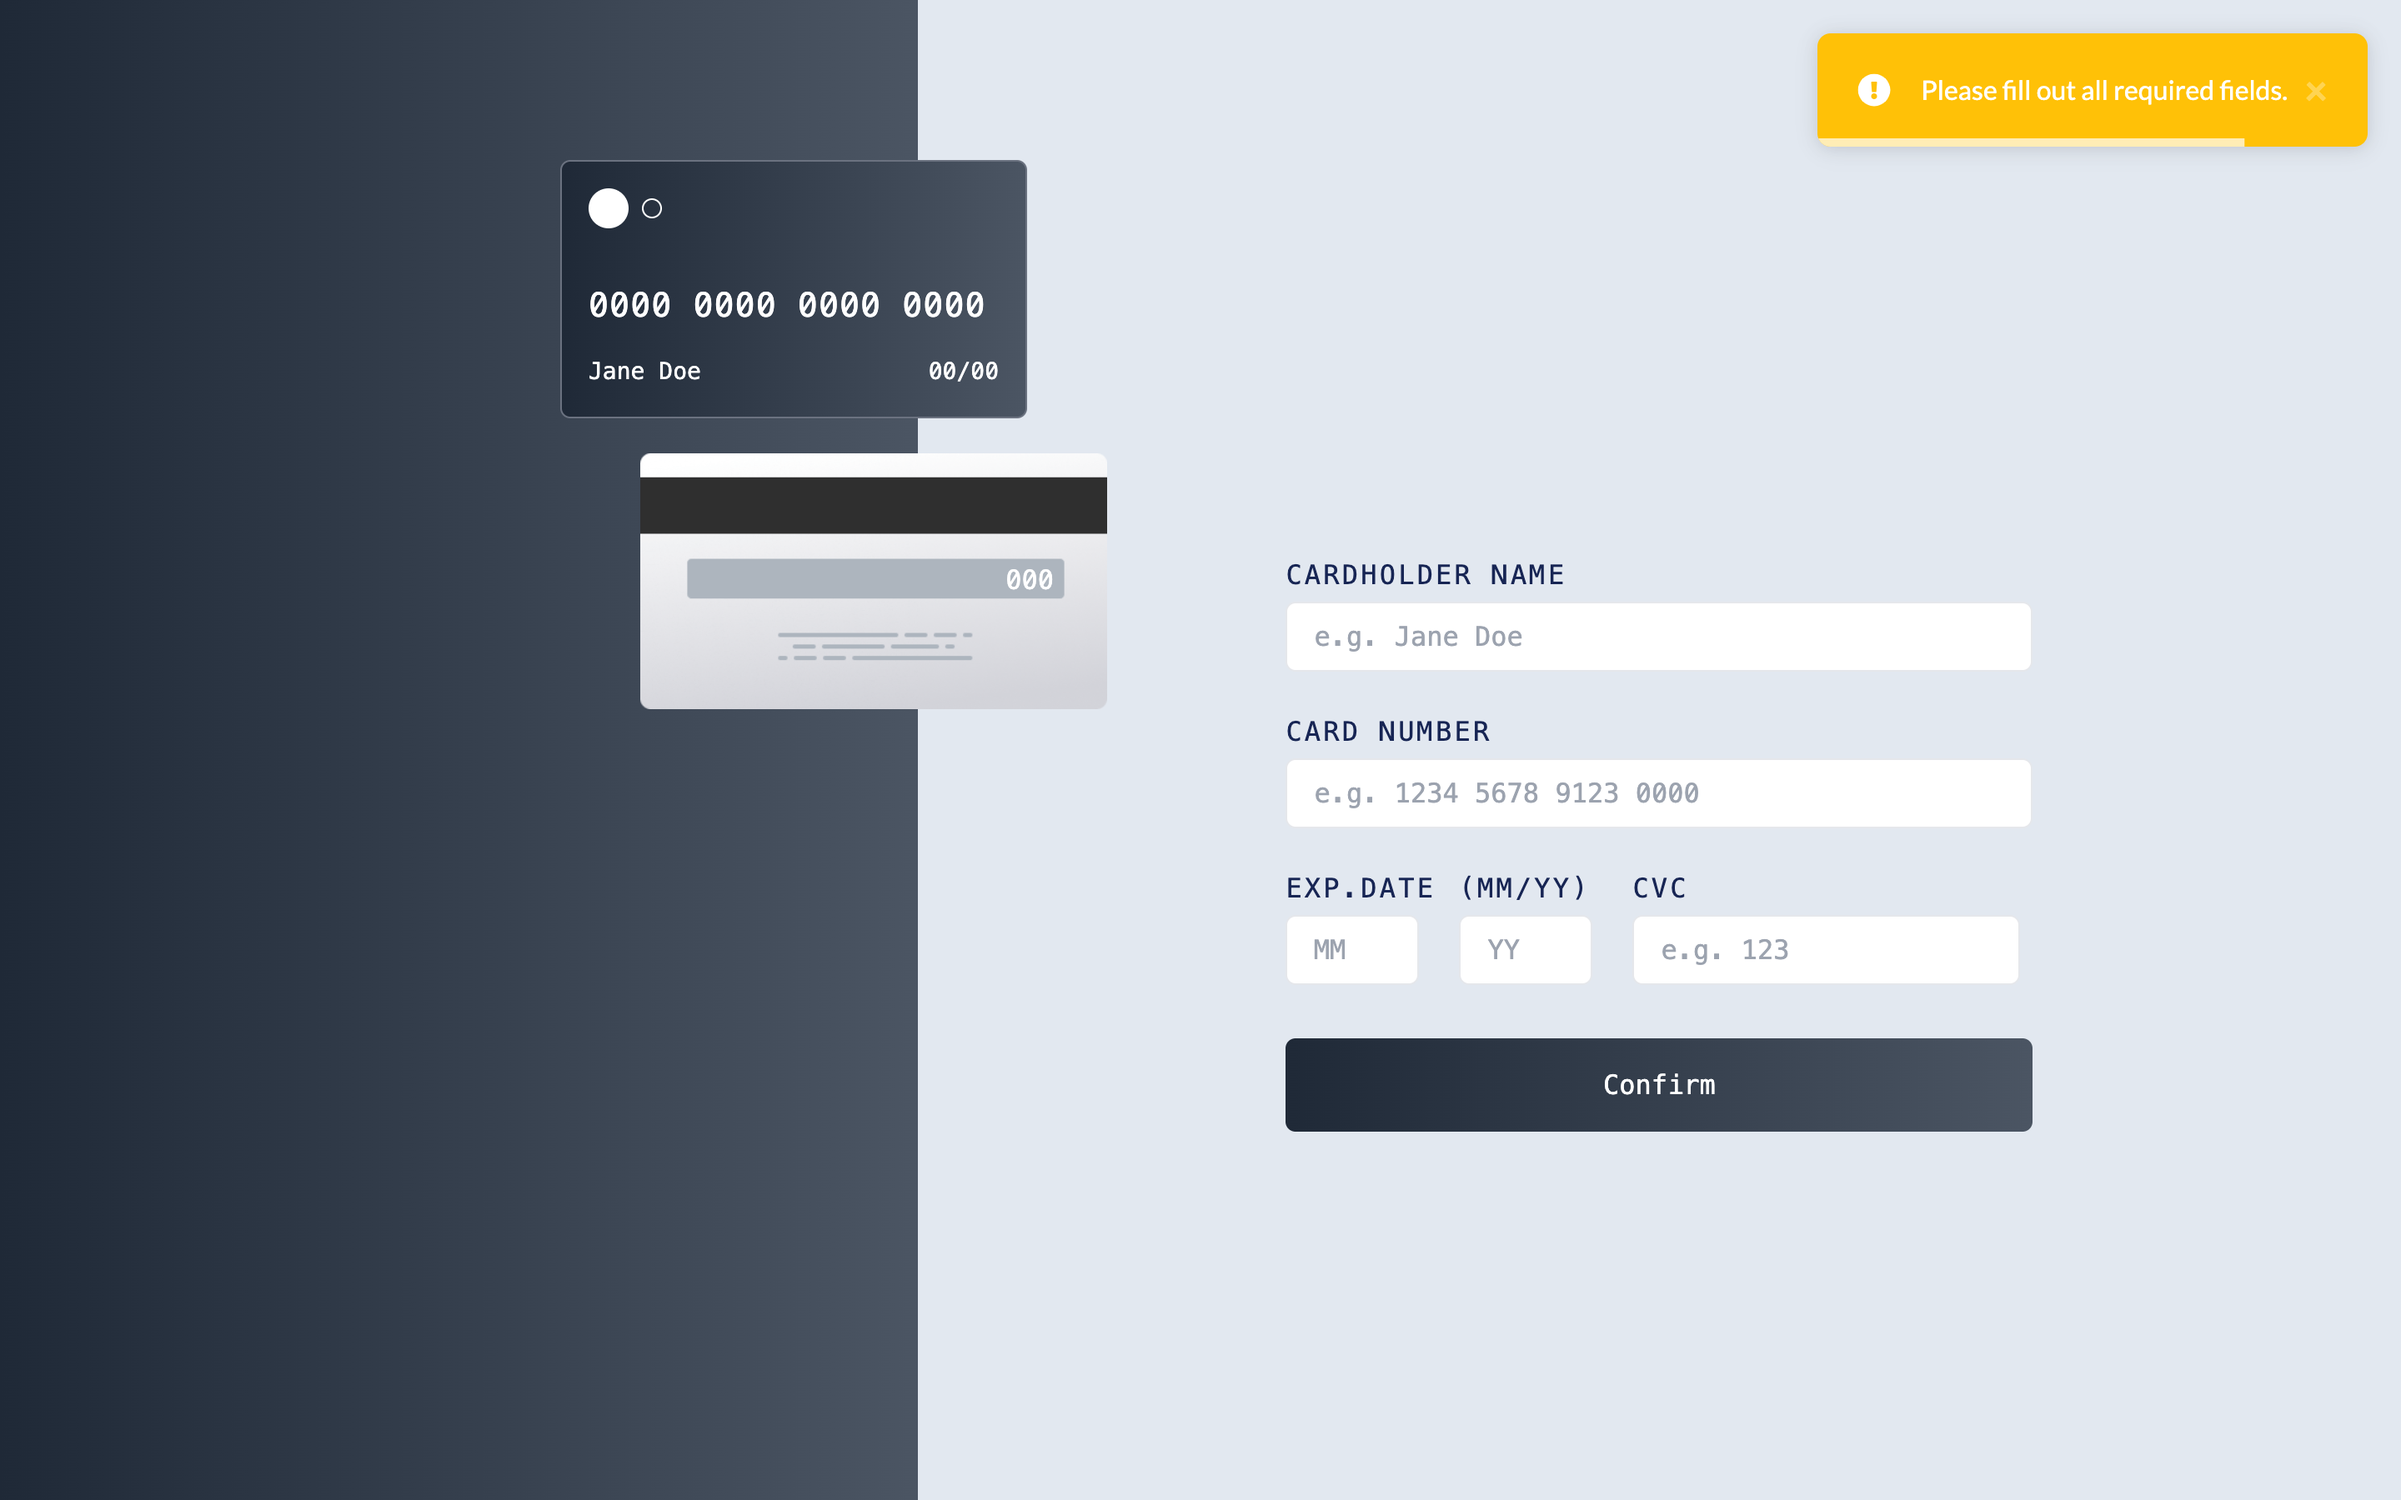
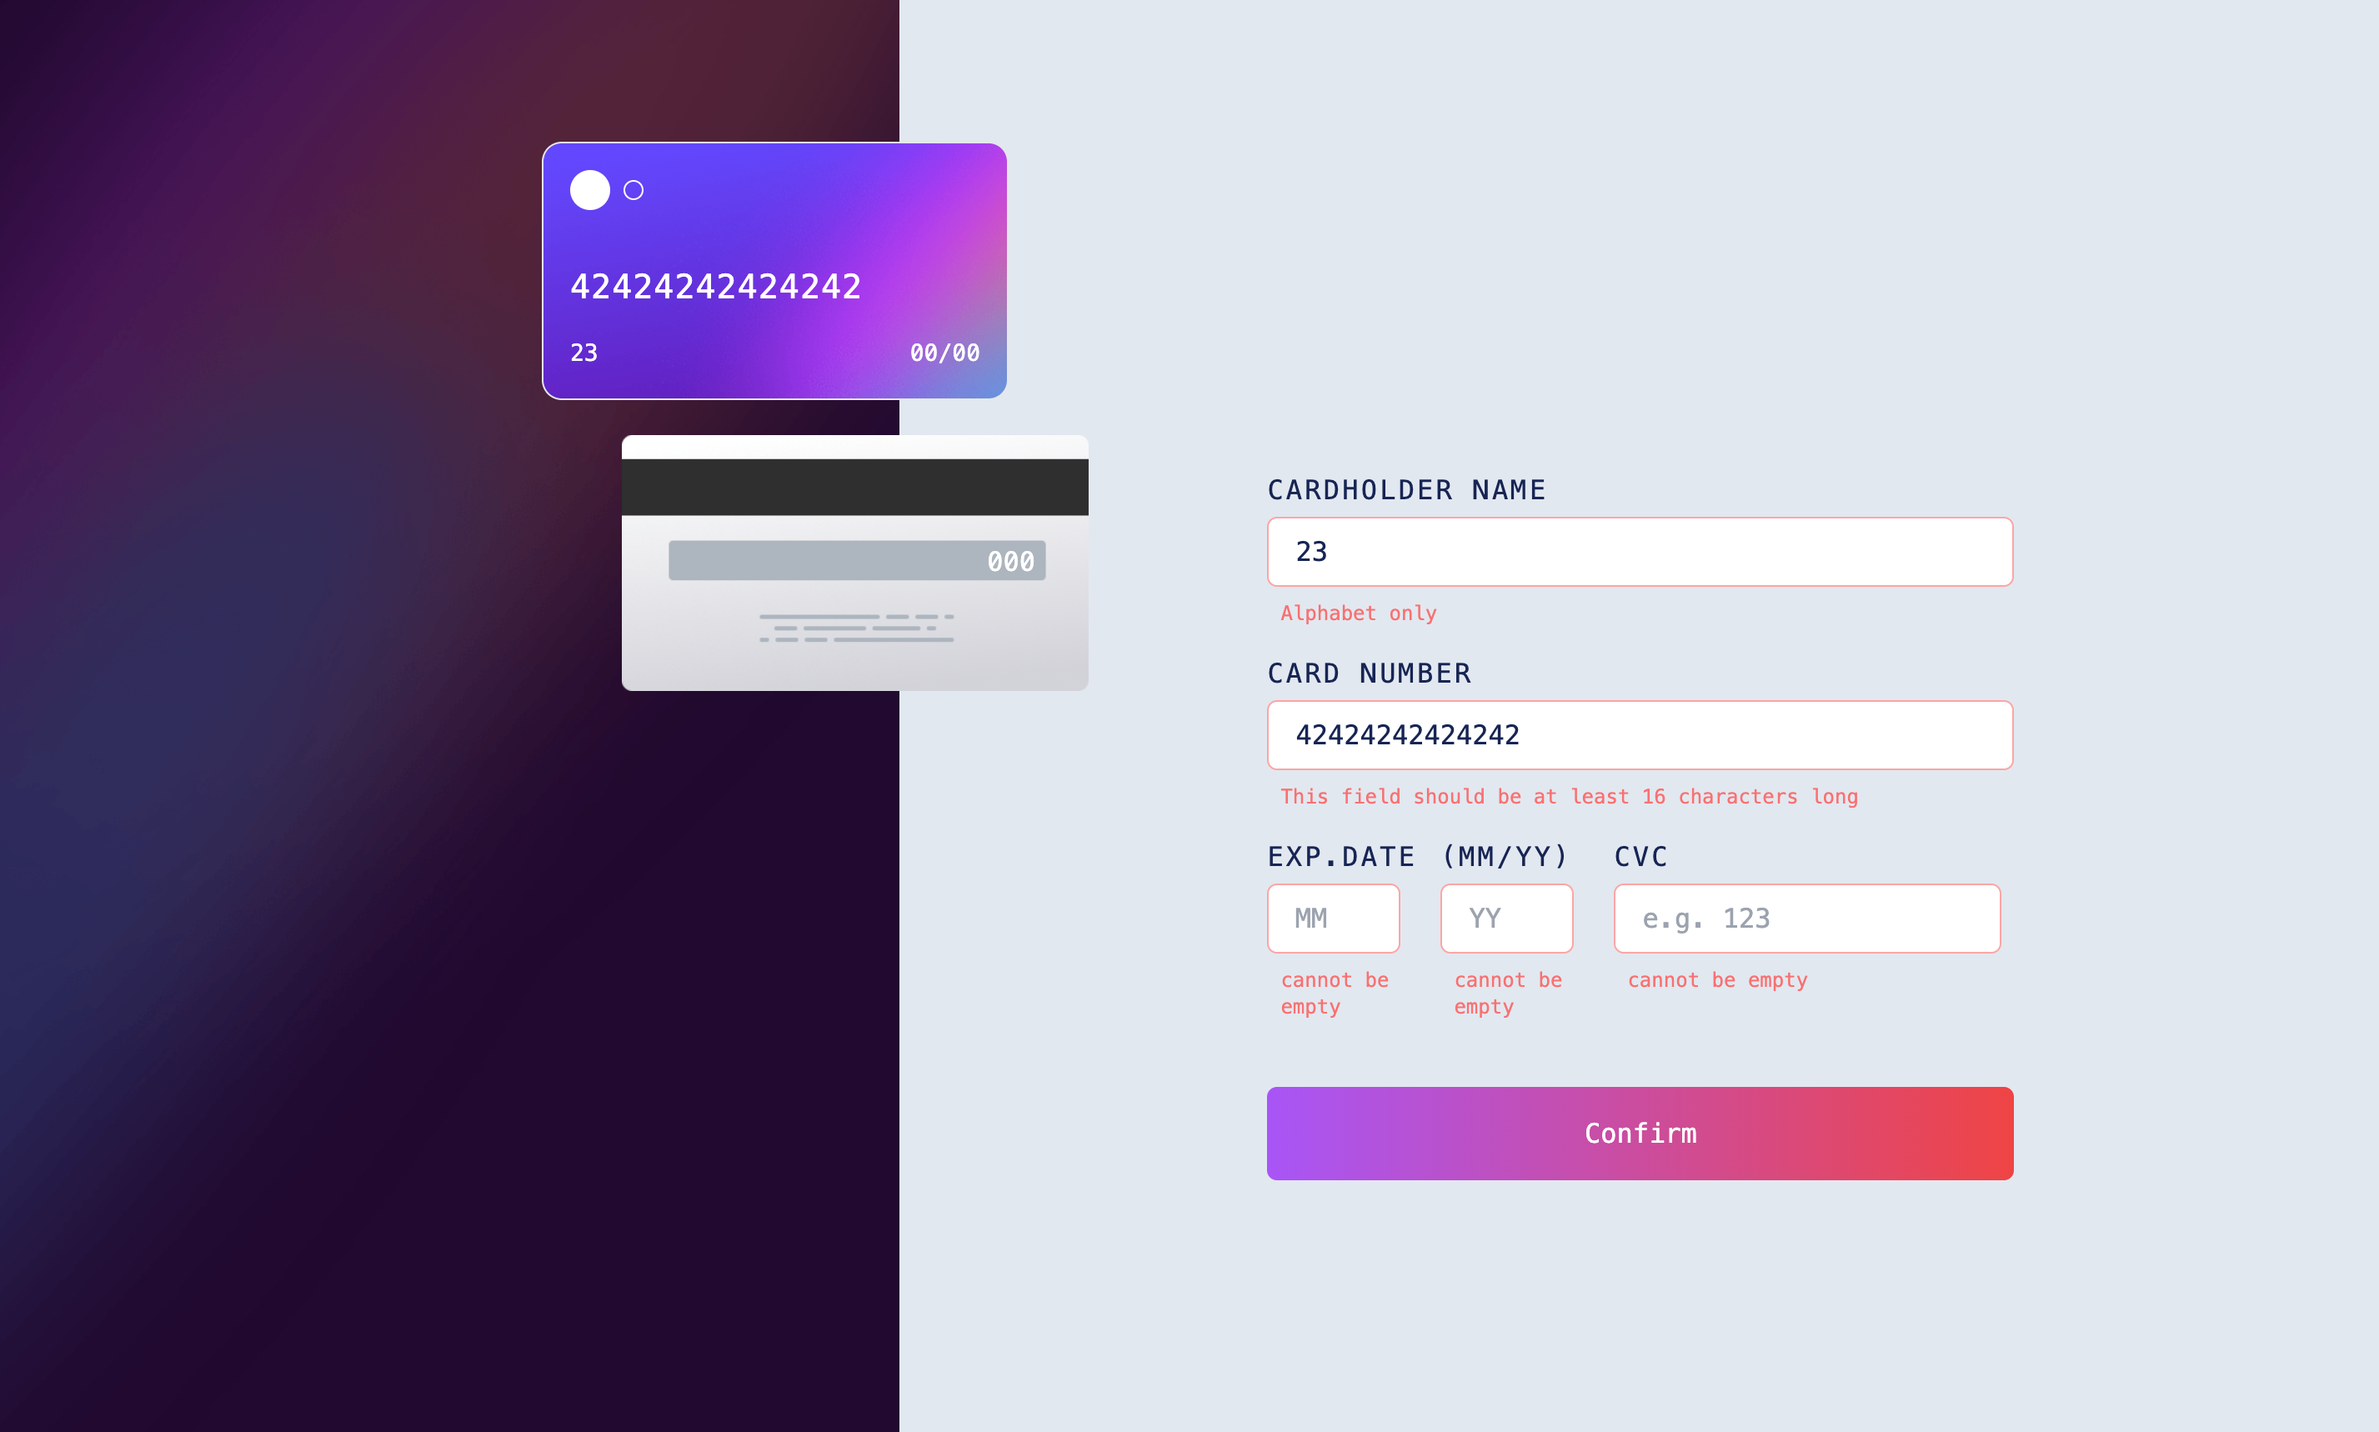
fix: resolve validation with form fields on interactive card

diff --git a/pages/interactive-card.vue b/pages/interactive-card.vue
@@ -16,6 +16,10 @@
         type="text"
         v-model="formData.name"
         class="outline-none border rounded-md py-2 px-4 w-full mb-6 bg-white"
+        :class="{
+          'outline-none border border-red-300':
+            v$.name.$pending || v$.name.$error,
+        }"
         placeholder="e.g. Jane Doe"
       />
       <!-- err msg name -->
@@ -34,6 +38,10 @@
         type="number"
         v-model="formData.num"
         class="outline-none border rounded-md py-2 px-4 w-full mb-6 bg-white"
+        :class="{
+          'outline-none border border-red-300':
+            v$.num.$pending || v$.num.$error,
+        }"
         placeholder="e.g. 1234 5678 9123 0000"
       />
       <!-- err msg num -->
@@ -52,6 +60,10 @@
             maxlength="2"
             v-model="formData.expiryMM"
             class="outline-none border rounded-md py-2 px-4 w-20 mt-1 bg-white"
+            :class="{
+              'outline-none border border-red-300':
+                v$.expiryMM.$pending || v$.expiryMM.$error,
+            }"
             placeholder="MM"
           />
           <!-- err msg MM -->
@@ -71,6 +83,10 @@
             minlength="2"
             v-model="formData.expiryYY"
             class="outline-none border rounded-md py-2 px-4 w-20 mt-1 bg-white"
+            :class="{
+              'outline-none border border-red-300':
+                v$.expiryYY.$pending || v$.expiryYY.$error,
+            }"
             placeholder="YY"
           />
           <!-- err msg YY -->
@@ -89,6 +105,10 @@
             maxlength="3"
             v-model="formData.csv"
             class="outline-none border rounded-md py-2 px-4 mt-1 bg-white"
+            :class="{
+              'outline-none border border-red-300':
+                v$.csv.$pending || v$.csv.$error,
+            }"
             placeholder="e.g. 123"
           />
           <!-- err msg csv -->
@@ -151,8 +171,8 @@ import {
   required,
   minLength,
   maxLength,
-  alpha,
   numeric,
+  helpers,
 } from "@vuelidate/validators";
 
 const toast = useToast();
@@ -178,6 +198,7 @@ const handleSubmit = async () => {
   //validate form
   const result = await v$.value.$validate();
   if (!result) {
+    console.log(v$.value);
     return;
   }
   //success
@@ -186,12 +207,15 @@ const handleSubmit = async () => {
   reset();
 };
 
+//regExp will restrict input to only alphabet with space which vuelidate alpha couldn't do
+const isAlphaWithSpace = (value) => /^[a-zA-Z\s]*$/.test(value);
+
 //form validation
 const rules = computed(() => {
   return {
     name: {
       required,
-      alpha,
+      isAlphaWithSpace: helpers.withMessage("Alphabet only", isAlphaWithSpace),
       minLength: minLength(2),
       maxLength: maxLength(20),
     },
@@ -201,17 +225,17 @@ const rules = computed(() => {
       maxLength: maxLength(16),
     },
     expiryMM: {
-      required,
+      required: helpers.withMessage("cannot be empty", required),
       minLength: minLength(2),
       maxLength: maxLength(2),
     },
     expiryYY: {
-      required,
+      required: helpers.withMessage("cannot be empty", required),
       minLength: minLength(2),
       maxLength: maxLength(2),
     },
     csv: {
-      required,
+      required: helpers.withMessage("cannot be empty", required),
       minLength: minLength(3),
       maxLength: maxLength(3),
     },
